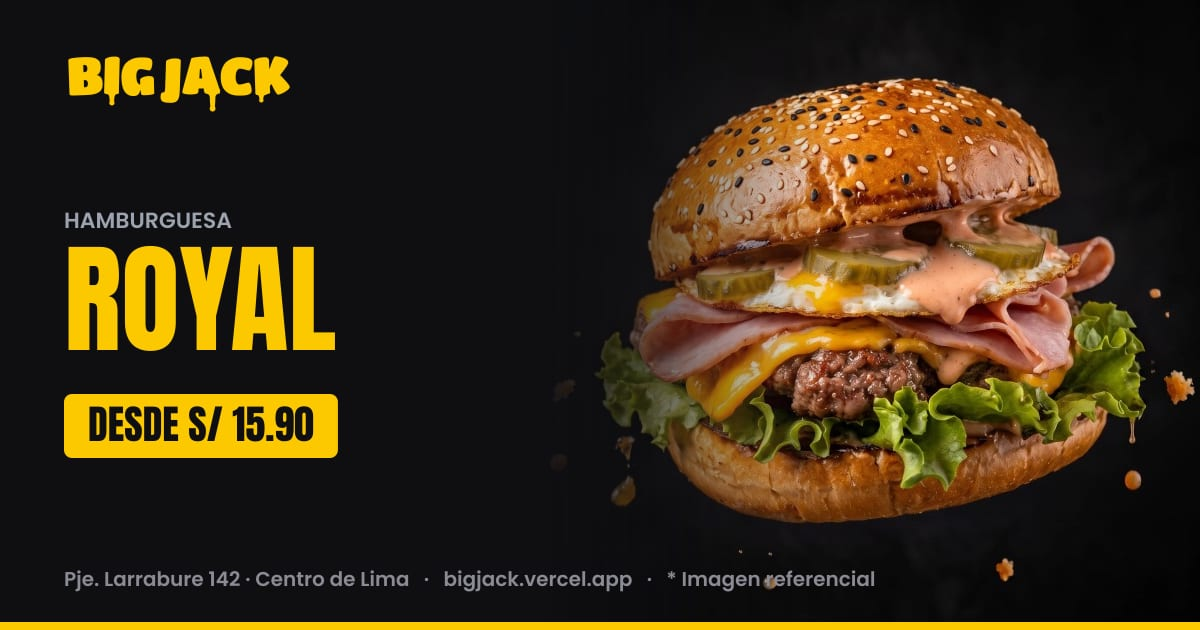
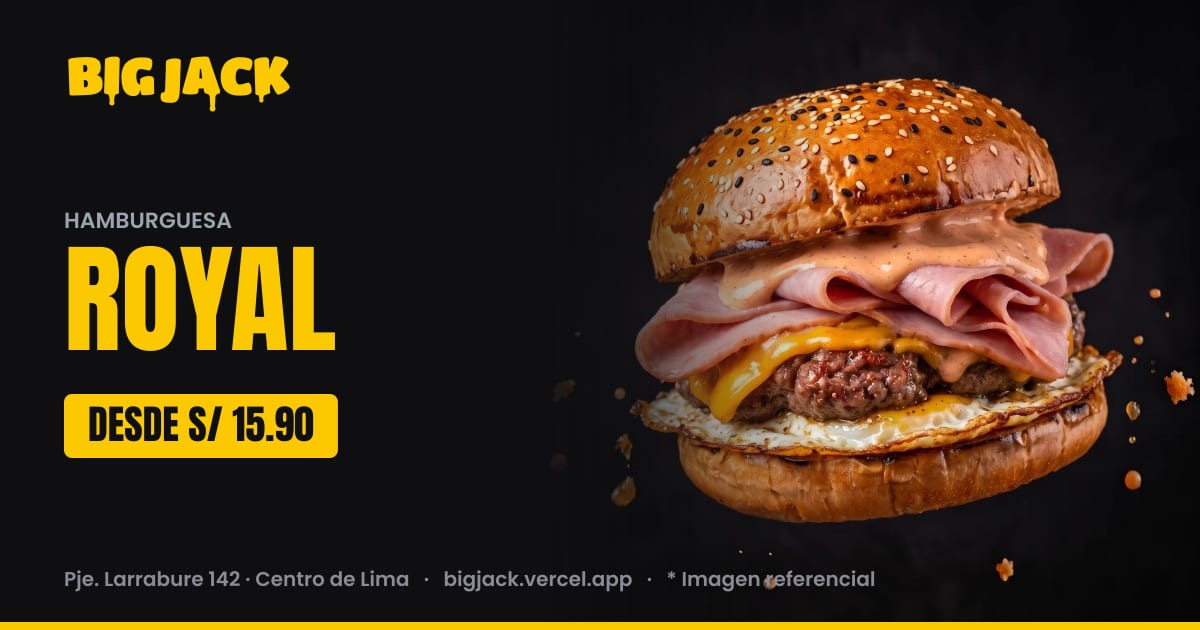
refactor: update menu item images and assets

diff --git a/app/data/menuData.js b/app/data/menuData.js
@@ -79,7 +79,7 @@ export const menuItems = [
     category: "LAS INTOCABLES",
     name: "Hamburguesa con Tocino",
     description: "Medallón grueso de carne, queso derretido, tocino crocante, pepinillos y salsa de la casa. Incluye papas fritas.",
-    image: "/images/baconjack.webp",
+    image: "/images/hamburguesa-con-tocino.webp",
     popular: true,
     options: [
       { id: "simple", sku: "PRD-LAB-JFSY", label: "Simple (1 carne)", price: 17.90 },
@@ -93,7 +93,7 @@ export const menuItems = [
     category: "LAS INTOCABLES",
     name: "Hamburguesa Royal",
     description: "Medallón de carne, queso fundido, jamón y huevo frito con la yema cremosa. Incluye papas fritas.",
-    image: "/images/royaljack.webp",
+    image: "/images/hamburguesa-royal.webp",
     popular: false,
     options: [
       { id: "simple", sku: "PRD-LAR-LUS0", label: "Simple (1 carne)", price: 15.90 },
@@ -107,7 +107,7 @@ export const menuItems = [
     category: "LAS INTOCABLES",
     name: "Hamburguesa a lo Pobre",
     description: "Medallón de carne, queso cheddar, huevo frito y plátano maduro. Dulce y salado a la vez. Incluye papas fritas.",
-    image: "/images/jackpobre.webp",
+    image: "/images/hamburguesa-a-lo-pobre.webp",
     popular: false,
     options: [
       { id: "simple", sku: "PRD-ALO-KC88", label: "Simple (1 carne)", price: 16.90 },
@@ -121,7 +121,7 @@ export const menuItems = [
     category: "LAS INTOCABLES",
     name: "Hamburguesa Clásica",
     description: "Medallón de carne, queso cheddar, lechuga, tomate y crema especial en pan dorado con mantequilla. Incluye papas fritas.",
-    image: "/images/lamisia.webp",
+    image: "/images/hamburguesa-clasica.webp",
     popular: false,
     options: [{ id: "simple", sku: "PRD-LAM-IPH3", label: "Simple (1 carne)", price: 12.90 }],
   },
